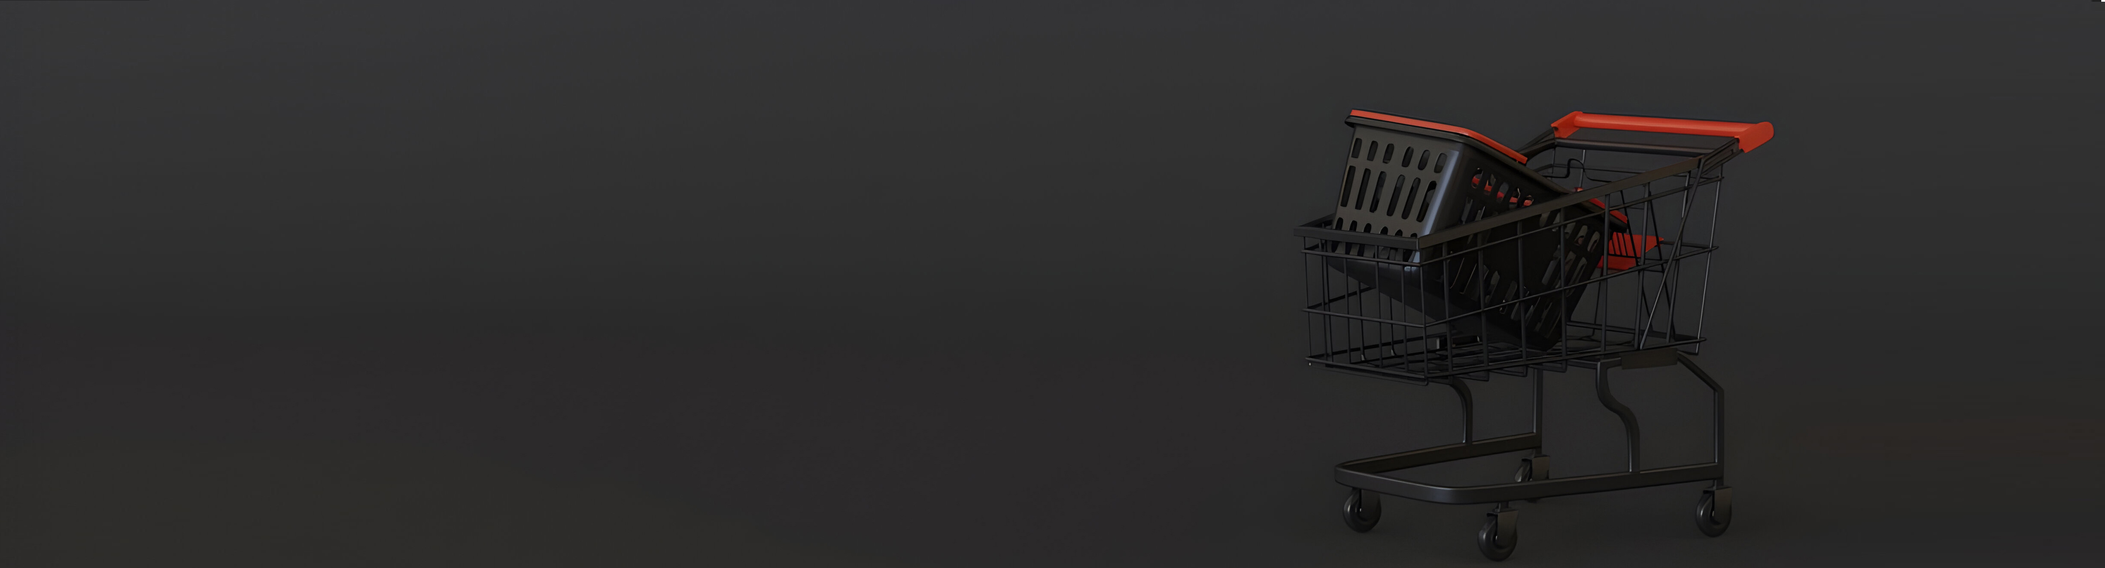
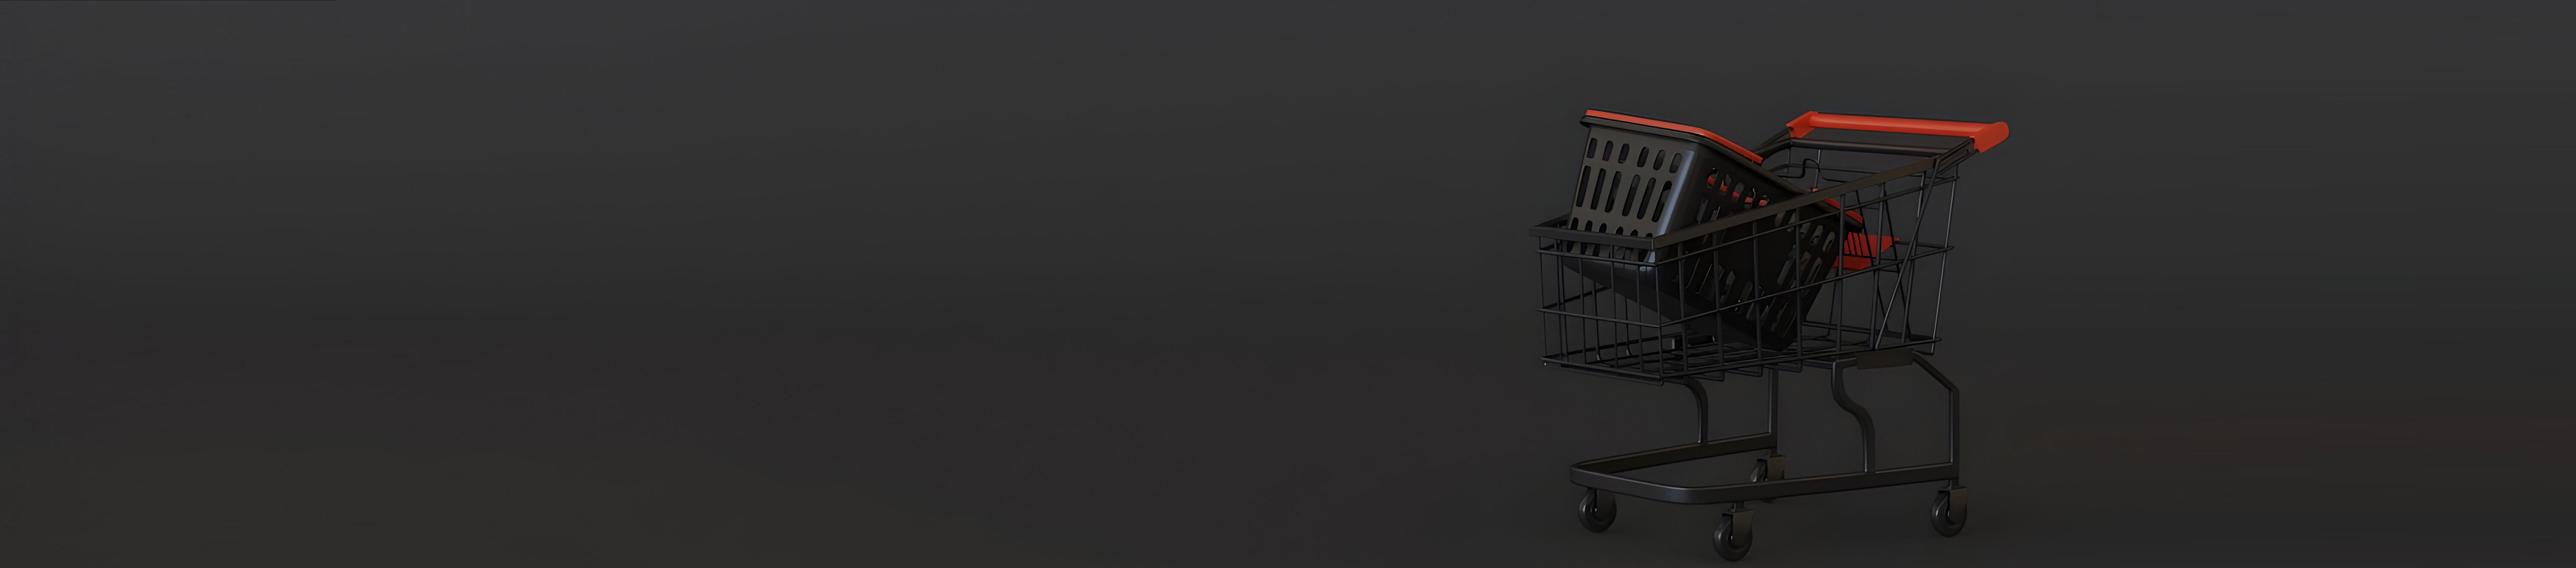
image updated

Changed region(s): [[0.5929, 0.1858, 0.8425, 0.7122], [0.5929, 0.7742, 0.7489, 0.929], [0.7489, 0.8361, 0.8113, 0.8671]]

diff --git a/frontend/src/components/Home.js b/frontend/src/components/Home.js
@@ -29,7 +29,7 @@ const Home = () => {
             <CategoryTab />
 
             <Carousel
-              className="lg:w-full lg:h-full flex flex-col pt-3"
+              className="lg:w-full flex flex-col pt-3"
               autoPlay
               infiniteLoop
               showThumbs={false}
